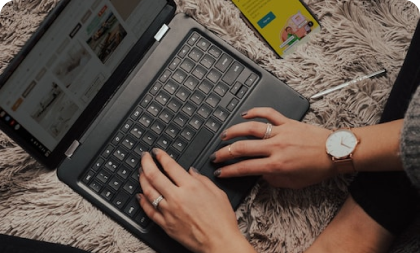
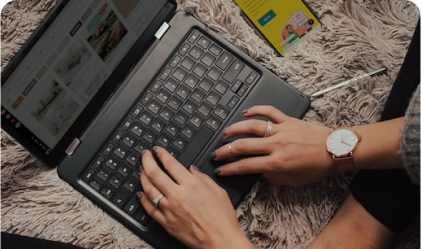
hero align

diff --git a/src/components/Home/Hero/HeroSection.tsx b/src/components/Home/Hero/HeroSection.tsx
@@ -13,7 +13,7 @@ const HeroSection = () => {
   return (
     <section
       id="hero-section"
-      className=" md:flex-rowc relative mx-0 flex   flex-col items-center  overflow-hidden    bg-gri-bg    pt-0  md:justify-center  "
+      className=" relative mx-0 flex flex-col   items-center overflow-hidden  bg-gri-bg    pt-0    md:flex-row  md:justify-center  "
     >
       <div className=" container relative flex w-full  flex-col-reverse items-center gap-12 bg-gradient-to-b  pb-56 lg:mx-16 lg:flex-row-reverse  ">
         <div className="relative hidden p-6 md:flex  md:w-full">
